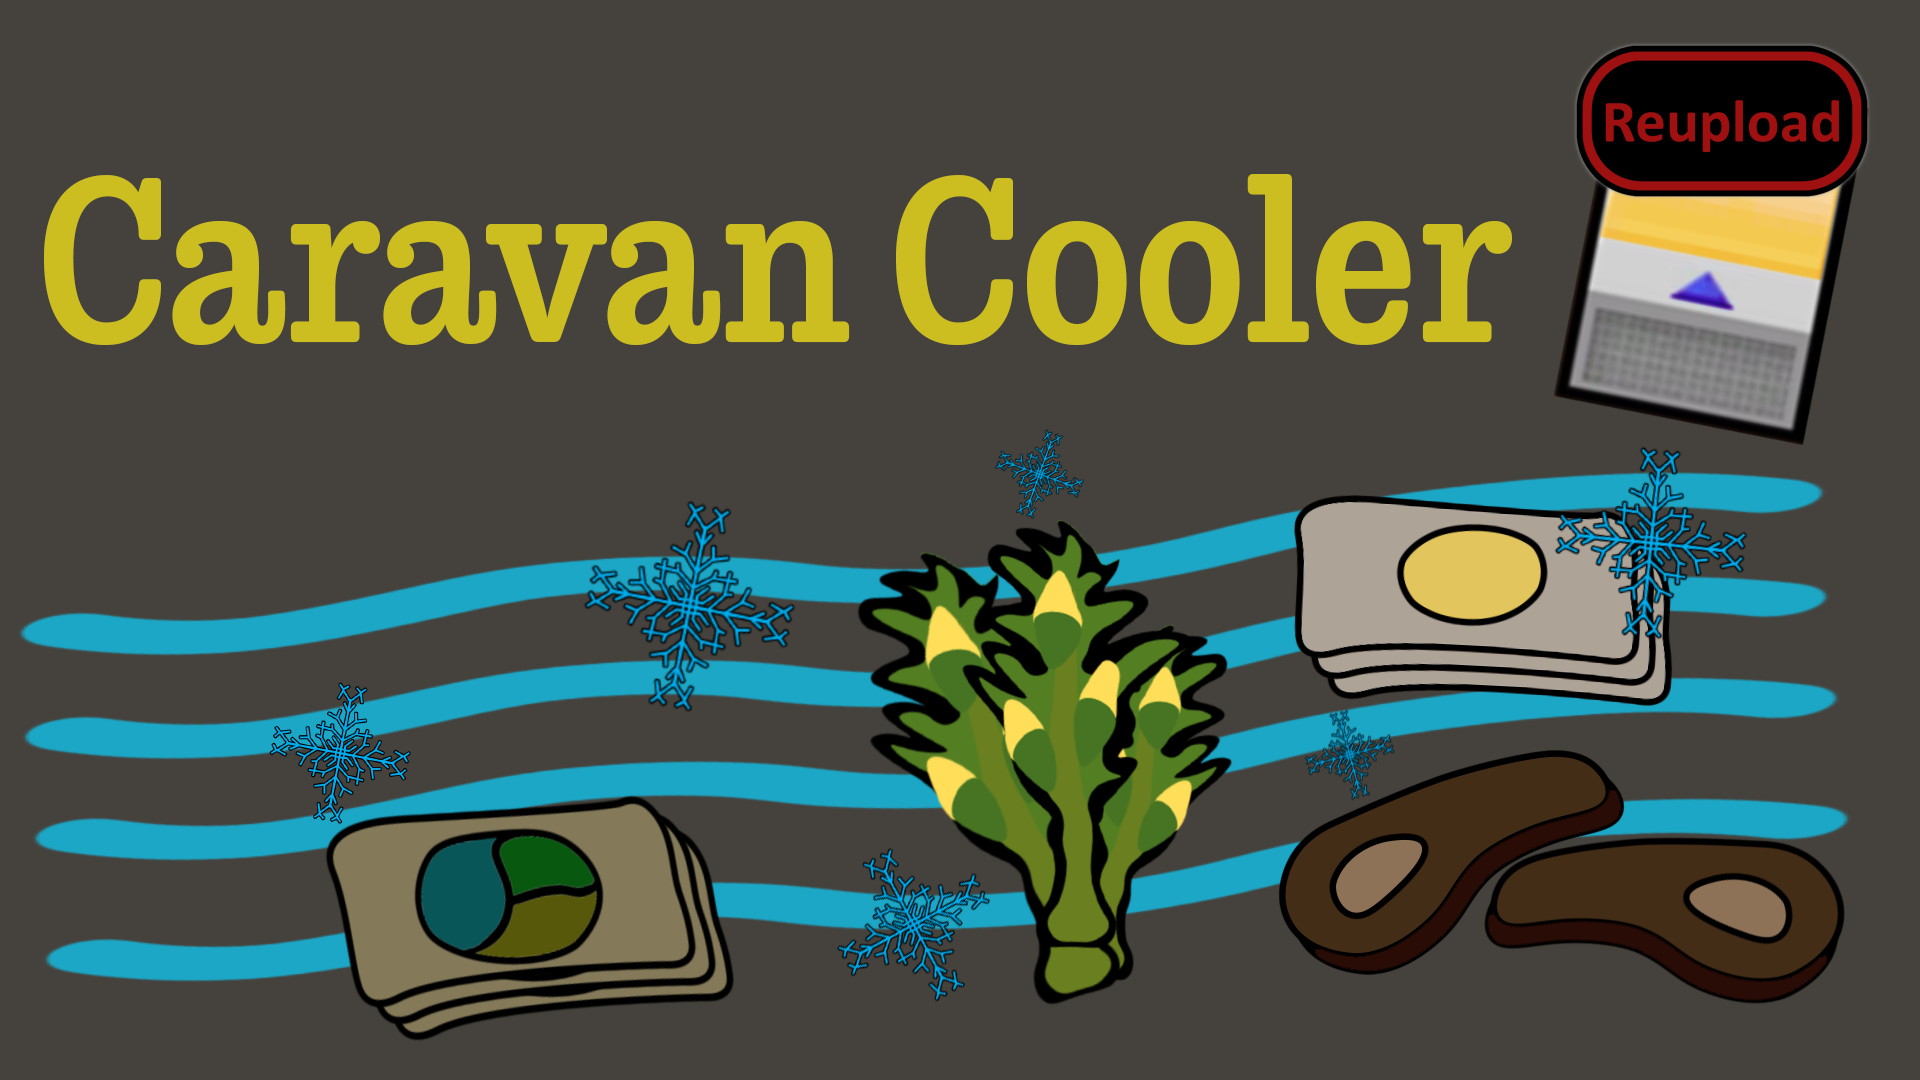
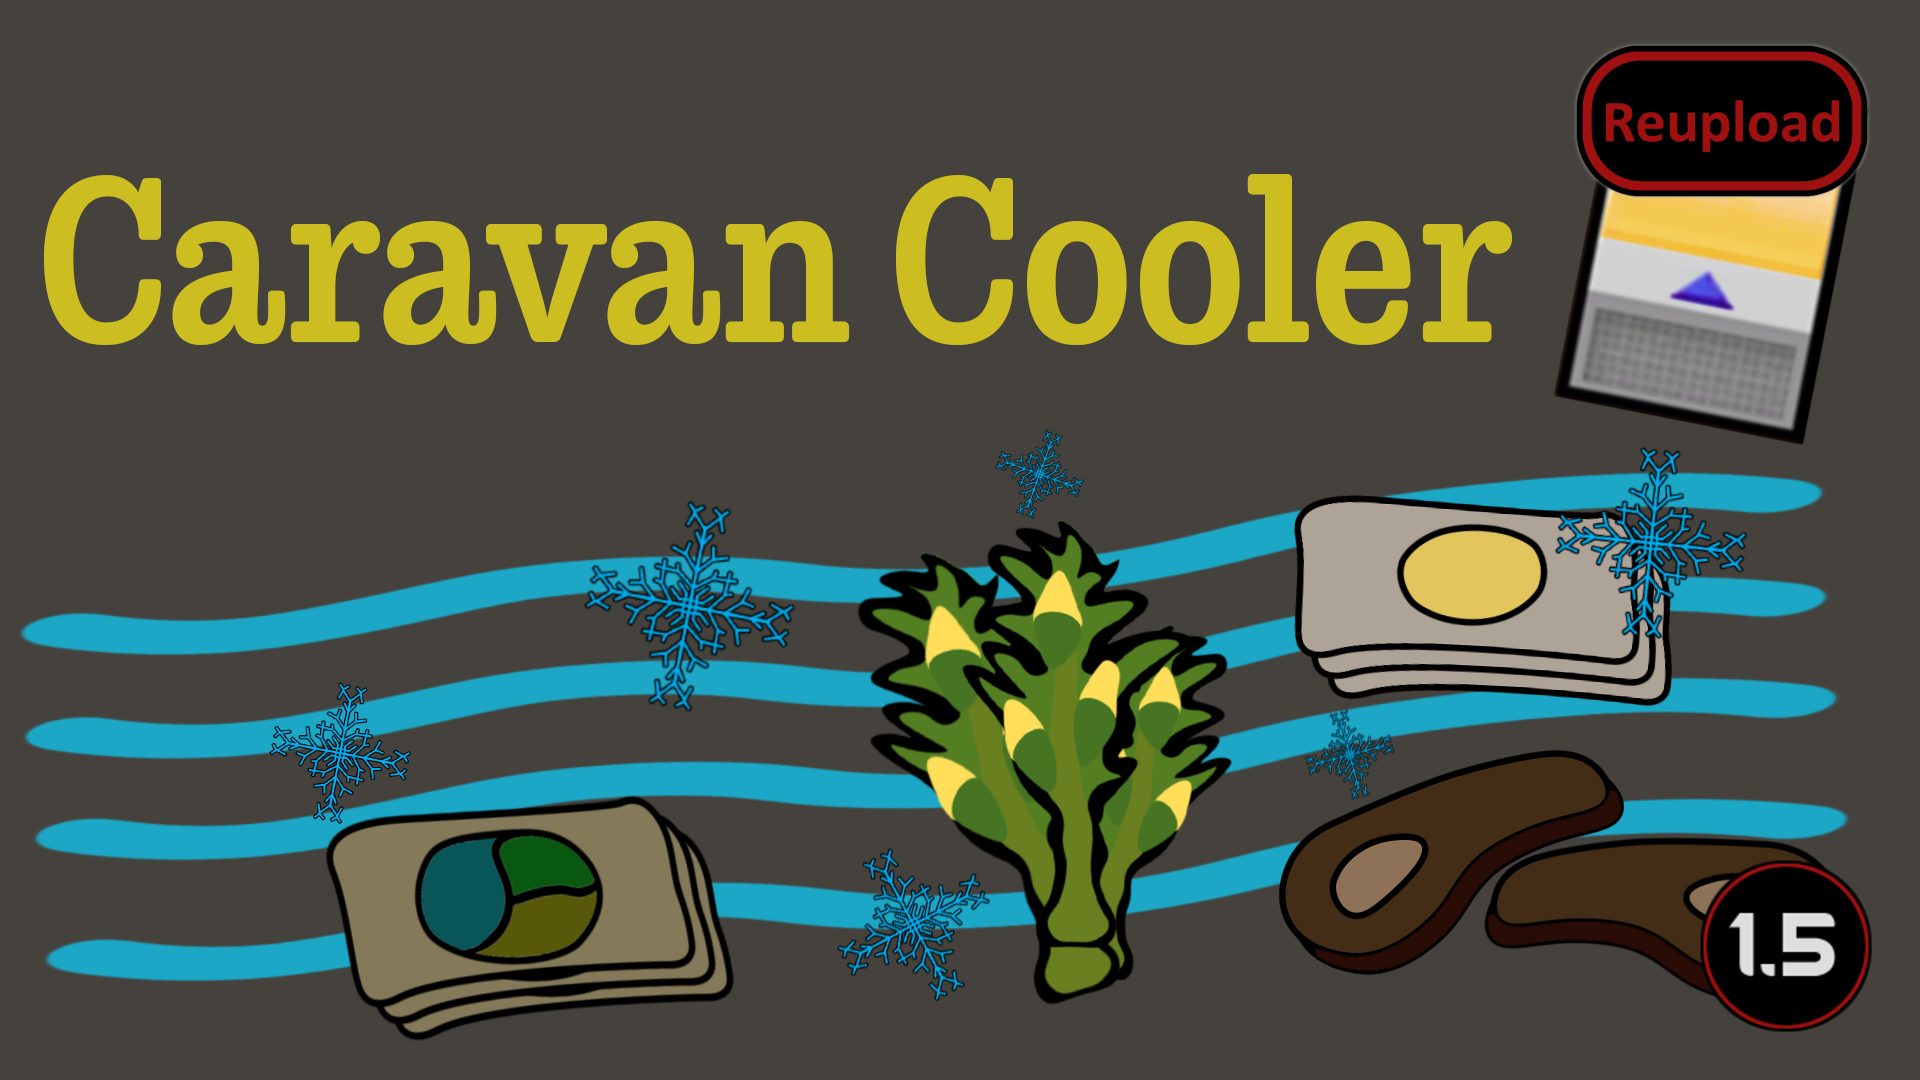
Mod updated for 1.5 and passed autotests

Changed region(s): [[0.875, 0.7944, 1.0, 0.9778]]

diff --git a/Source/CaravanCooler/FormCaravan_EachFrame.cs b/Source/CaravanCooler/FormCaravan_EachFrame.cs
@@ -1,15 +1,13 @@
-using System.Collections.Generic;
 using HarmonyLib;
 using RimWorld;
 
 namespace CaravanCooler;
 
-[HarmonyPatch(typeof(Dialog_FormCaravan))]
-[HarmonyPatch("DoWindowContents")]
+[HarmonyPatch(typeof(Dialog_FormCaravan), nameof(Dialog_FormCaravan.DoWindowContents))]
 public static class FormCaravan_EachFrame
 {
     public static void Postfix(Dialog_FormCaravan __instance)
     {
-        CaravanInfo.transferables = new List<TransferableOneWay>(__instance.transferables);
+        CaravanInfo.transferables = [..__instance.transferables];
     }
 }

diff --git a/Source/CaravanCooler/WorldCaravanInfo.cs b/Source/CaravanCooler/WorldCaravanInfo.cs
@@ -5,8 +5,8 @@ using Verse;
 
 namespace CaravanCooler;
 
-[HarmonyPatch(typeof(DaysUntilRotCalculator))]
-[HarmonyPatch("ApproxDaysUntilRot", typeof(List<Thing>), typeof(int), typeof(WorldPath), typeof(float), typeof(int))]
+[HarmonyPatch(typeof(DaysUntilRotCalculator), nameof(DaysUntilRotCalculator.ApproxDaysUntilRot), typeof(List<Thing>),
+    typeof(int), typeof(WorldPath), typeof(float), typeof(int))]
 public static class WorldCaravanInfo
 {
     [HarmonyPostfix]

diff --git a/Source/CaravanCooler/WorldCaravanTick.cs b/Source/CaravanCooler/WorldCaravanTick.cs
@@ -6,12 +6,11 @@ using Verse;
 
 namespace CaravanCooler;
 
-[HarmonyPatch(typeof(Caravan))]
-[HarmonyPatch("Tick")]
+[HarmonyPatch(typeof(Caravan), nameof(Caravan.Tick))]
 public static class WorldCaravanTick
 {
     [HarmonyPostfix]
-    private static void SetRotValuesToZero(Caravan __instance)
+    private static void Postfix(Caravan __instance)
     {
         if (!CaravanCooler.HasCoolerInListOfThings(__instance.AllThings.ToList()))
         {

diff --git a/Source/CaravanCooler/FormCaravanWarning.cs b/Source/CaravanCooler/FormCaravanWarning.cs
@@ -3,8 +3,7 @@ using RimWorld;
 
 namespace CaravanCooler;
 
-[HarmonyPatch(typeof(Dialog_FormCaravan))]
-[HarmonyPatch("MostFoodWillRotSoon", MethodType.Getter)]
+[HarmonyPatch(typeof(Dialog_FormCaravan), "MostFoodWillRotSoon", MethodType.Getter)]
 public static class FormCaravanWarning
 {
     [HarmonyPostfix]

diff --git a/Source/CaravanCooler/FormCaravan_PostClose.cs b/Source/CaravanCooler/FormCaravan_PostClose.cs
@@ -3,8 +3,7 @@ using RimWorld;
 
 namespace CaravanCooler;
 
-[HarmonyPatch(typeof(Dialog_FormCaravan))]
-[HarmonyPatch("PostClose")]
+[HarmonyPatch(typeof(Dialog_FormCaravan), nameof(Dialog_FormCaravan.PostClose))]
 public static class FormCaravan_PostClose
 {
     public static void Postfix()

diff --git a/Source/CaravanCooler/CaravanFormingWindowUtility.cs b/Source/CaravanCooler/CaravanFormingWindowUtility.cs
@@ -4,8 +4,7 @@ using Verse;
 
 namespace CaravanCooler;
 
-[HarmonyPatch(typeof(CaravanUIUtility))]
-[HarmonyPatch("GetDaysWorthOfFoodLabel")]
+[HarmonyPatch(typeof(CaravanUIUtility), "GetDaysWorthOfFoodLabel")]
 public static class CaravanFormingWindowUtility
 {
     [HarmonyPostfix]

diff --git a/Source/CaravanCooler/CaravanInfo.cs b/Source/CaravanCooler/CaravanInfo.cs
@@ -5,5 +5,5 @@ namespace CaravanCooler;
 
 public class CaravanInfo
 {
-    public static List<TransferableOneWay> transferables = new List<TransferableOneWay>();
+    public static List<TransferableOneWay> transferables = [];
 }

diff --git a/Source/CaravanCooler/ThingDef_CaravanCooler.cs b/Source/CaravanCooler/ThingDef_CaravanCooler.cs
@@ -2,6 +2,4 @@ using Verse;
 
 namespace CaravanCooler;
 
-public class ThingDef_CaravanCooler : ThingDef
-{
-}
+public class ThingDef_CaravanCooler : ThingDef;

diff --git a/README.md b/README.md
@@ -36,9 +36,13 @@ Keep perishable food items refrigerated for those long treks across the vast pla
 
 -  See if the the error persists if you just have this mod and its requirements active.
 -  If not, try adding your other mods until it happens again.
--  Post your error-log using https://steamcommunity.com/workshop/filedetails/?id=818773962]HugsLib and command Ctrl+F12
+-  Post your error-log using https://steamcommunity.com/workshop/filedetails/?id=818773962]HugsLib or the standalone https://steamcommunity.com/sharedfiles/filedetails/?id=2873415404]Uploader and command Ctrl+F12
 -  For best support, please use the Discord-channel for error-reporting.
 -  Do not report errors by making a discussion-thread, I get no notification of that.
 -  If you have the solution for a problem, please post it to the GitHub repository.
+-  Use https://github.com/RimSort/RimSort/releases/latest]RimSort to sort your mods
 
+
+
+https://steamcommunity.com/sharedfiles/filedetails/changelog/2936900702]![Image](https://img.shields.io/github/v/release/emipa606/CaravanCooler?label=latest%20version&style=plastic&color=9f1111&labelColor=black)
 
